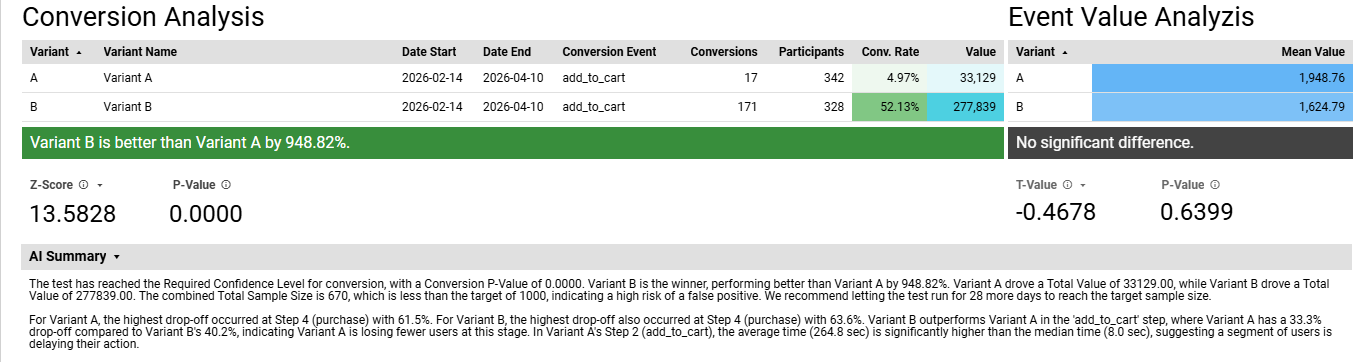
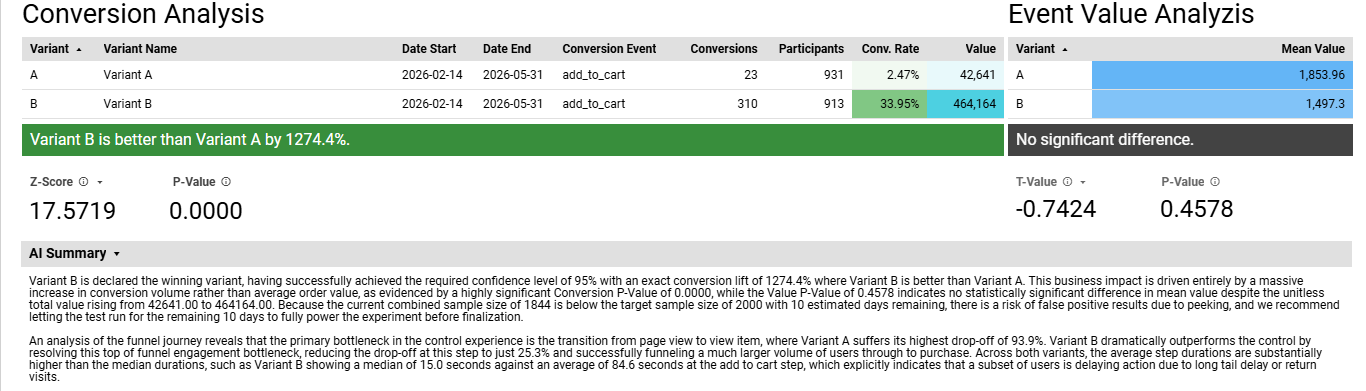
Upgrade to version v2.22
Upgrade related to Gemini 3.5

diff --git a/03-Releases/v2.22/README.md b/03-Releases/v2.22/README.md
@@ -1,0 +1,184 @@
+# v2.22 - Gemini 3.5 Flash
+
+* This upgrades the version from **v.2.21** to **v2.22**.
+* In this version [Gemini 2.5 Flash](https://ai.google.dev/gemini-api/docs/models/gemini-2.5-flash?hl=en) is replaced by [Gemini 3.5 Flash](https://ai.google.dev/gemini-api/docs/models/gemini-3.5-flash?hl=en).
+
+## 1. BigQuery
+
+Use the new sceduled queries. Changes to the queries are updated **fallback prompt** and **Generate AI narratives**.
+If you want to make the changes manually yourself, the following sql is shown in 1.2 and 1.3 is new.
+
+1. [**Google Analytics 4** scheduled query](../../01-Documentation/Google-Cloud/01-BigQuery/01-Scheduled-queries/bigquery_ab_analyzer_ga4.sql).
+	1. Replace **your_project** with the name of your project.
+	2. Replace **analytics_XXX** with your GA4 data set.
+2. [**GA4Dataform** scheduled query](../../01-Documentation/Google-Cloud/01-BigQuery/01-Scheduled-queries/bigquery_ab_analyzer_ga4dataform.sql).
+	1. Replace **your_project** with the name of your project.
+	2. Replace **analytics_XXX** with your GA4 data set.
+	3. Replace 'region-eu' with 'region-us' if your data is in US.
+3. [**Amplitude** scheduled query](../../01-Documentation/Google-Cloud/01-BigQuery/01-Scheduled-queries/bigquery_ab_analyzer_amplitude.sql).
+	1. In **declare events_table**, replace **your_project.your_dataset.deduplicated_EVENTS_1234** with your project, data set and deduplicated table function.
+	2. Replace **your_project** with the name of your project.
+	3. Replace 'region-eu' with 'region-us' if your data is in US.
+4. [**Mixpanel** scheduled query](../../01-Documentation/Google-Cloud/01-BigQuery/01-Scheduled-queries/bigquery_ab_analyzer_mixpanel.sql).
+	1. In **declare events_table**, replace **your-project.mixpanel** with your project and data set.
+	2. Replace 'region-eu' with 'region-us' if your data is in US.
+	3. In **(10) GENERATE AI NARRATIVES**, replace **your_project** with the name of your project.
+5. [**PostHog** scheduled query](../../01-Documentation/Google-Cloud/01-BigQuery/01-Scheduled-queries/bigquery_ab_analyzer_posthog.sql).
+	1. In **declare events_table**, replace **your-project.posthog** with your project and data set.
+	2. Replace 'region-eu' with 'region-us' if your data is in US.
+	3. In **(10) GENERATE AI NARRATIVES**, replace **your_project** with the name of your project.
+
+
+### 1.1 Setup Query for connecting to Gemini 3.5 Flash
+
+Run this once in your BigQuery editor (adjusting your project/dataset/location/connection names):
+
+```sql
+	create or replace model `your-dataset.bigquery_ab_analyzer.gemini_narrator` -- Replace "your-dataset" with correct dataset.
+	remote with connection `your-dataset.eu.gemini_connection` -- Replace "your-dataset" with correct dataset. Replace "eu" with the location you are using.
+	options (
+		endpoint = 'gemini-3.5-flash' 
+	);
+```
+
+### 1.2 AI Fallback Prompt
+
+Find **if ai_prompt is null or ai_prompt = '' then**, and replace that section with the sql below.
+
+```sql
+	if ai_prompt is null or ai_prompt = '' then
+      set ai_prompt = concat(
+        'You are a senior CRO and data analytics consultant summarizing A/B test results for an executive dashboard.\n',
+        'Write exactly two concise, highly structured paragraphs of professional prose separated by a single blank line. Do not use rule titles, bullet points, hyphens, or markdown headings.\n\n',
+        'Paragraph 1 — Executive Decision & Statistical Summary:\n',
+        '1. Lead immediately with a clear verdict: Declare the winning variant (or "Inconclusive/No Winner"), state whether it achieved the Required Confidence Level, and quote the exact conversion lift from "Conversion Details".\n',
+        '2. Synthesize business impact: If monetary or mean values are present, evaluate whether the lift is driven by higher conversion volume, higher average order value, or both. Treat total value as a unitless scale metric (do not add currency symbols). Reference Conversion P-Value or Value P-Value explicitly without scientific notation.\n',
+        '3. Decision & Horizon Check: Check sample size against {{TARGET_SAMPLE}} and "Estimated Days Remaining". If traffic is below target, warn of false-positive (peeking) risk and recommend letting the test run for the remaining days. If target is reached (0 days remaining), recommend closing the test. If underpowered (<1000 sample target), note the detection limitation.\n\n',
+        'Paragraph 2 — Funnel & User Behavior Dynamics:\n',
+        'If funnel journey data is provided:\n',
+        '1. Journey Bottlenecks: Identify the step with the highest drop-off and explain specifically where and how the winning variant outperforms the control (e.g., superior top-of-funnel engagement vs. checkout completion).\n',
+        '2. Behavioral Latency: Compare median vs. average step duration. If average time is substantially higher than median time, explicitly explain that a subset of users is delaying action (long-tail delay / return visits).\n',
+        'If no funnel data is present, omit this second paragraph entirely.'
+      );
+    end if;
+```
+
+### 1.3 Generate AI narratives
+
+Find **(10) GENERATE AI NARRATIVES**, and replace that section with the sql below.
+
+```sql
+	----------------------------------------------------------------------------
+    -- (10) GENERATE AI NARRATIVES
+    ----------------------------------------------------------------------------
+    if ai_summary_activated then
+      update `your_project.bigquery_ab_analyzer.experiments_report` dest
+        set ai_summary = ai.ml_generate_text_llm_result
+        from (
+          select
+            id,
+            ml_generate_text_llm_result
+          from ML.GENERATE_TEXT(
+            model `your_project.bigquery_ab_analyzer.gemini_narrator`,
+            (
+              select 
+                rep.id,
+                concat(
+                  replace(ai_prompt, '{{TARGET_SAMPLE}}', cast(coalesce(exp.ai_total_target_sample, 2000) as string)),
+                  '\n\nDATA:\n',
+                  'Experiment Name: ', coalesce(rep.experiment_name, 'N/A'), '. ',
+                  'Hypothesis: ', coalesce(rep.hypothesis, 'N/A'), '. ',
+                  '--- EXPERIMENT METADATA --- ',
+                  'Required Confidence Level: ', coalesce(cast(rep.confidence_level as string), 'N/A'), '%. ',
+                  'Is Date Comparison Analysis?: ', coalesce(cast(rep.date_comparison as string), 'N/A'), '. ',
+                  'Days Running: ', coalesce(cast(date_diff(rep.date_end, rep.date_start, day) + 1 as string), 'N/A'), ' days. ',
+                  'Target Sample Size: ', cast(coalesce(exp.ai_total_target_sample, 2000) as string), '. ',
+                  'Estimated Days Remaining to hit Target: ', 
+                    coalesce(cast(
+                      ceil(
+                        greatest(0, coalesce(exp.ai_total_target_sample, 2000) - (rep.test_a + rep.test_b)) 
+                        / 
+                        nullif((rep.test_a + rep.test_b) / (date_diff(rep.date_end, rep.date_start, day) + 1), 0)
+                      ) 
+                  as string), 'N/A'), ' days. ',
+                  
+                  '--- SAMPLE SIZE --- ',
+                  'Variant A Traffic: ', coalesce(cast(rep.test_a as string), '0'), ', ',
+                  'Variant B Traffic: ', coalesce(cast(rep.test_b as string), '0'), '. ',
+                  '--- CONVERSION RATE --- ',
+                  'Variant A Rate: ', coalesce(cast(rep.conv_rate_a as string), 'N/A'), ', ',
+                  'Variant B Rate: ', coalesce(cast(rep.conv_rate_b as string), 'N/A'), ', ',
+                  'Rate Significant?: ', coalesce(cast(rep.conv_significance as string), 'N/A'), ', ',
+                  'Conversion Z-Score: ', coalesce(format('%.4f', rep.conv_z_score), 'N/A'), ', ',
+                  'Conversion P-Value: ', coalesce(format('%.4f', rep.conv_p_value), 'N/A'), '. ',
+                  'Conversion Details: ', coalesce(rep.conv_details, 'N/A'), '. ',
+                  
+                  '--- MEAN VALUE & TOTAL VALUE --- ',
+                  'Variant A Total Value: ', coalesce(format('%.2f', rep.total_conversion_value_a), 'N/A'), ', ',
+                  'Variant B Total Value: ', coalesce(format('%.2f', rep.total_conversion_value_b), 'N/A'), ', ',
+                  'Variant A Mean Value: ', coalesce(format('%.2f', rep.mean_value_a), 'N/A'), ', ',
+                  'Variant B Mean Value: ', coalesce(format('%.2f', rep.mean_value_b), 'N/A'), ', ',
+                  'Value Significant?: ', coalesce(cast(rep.value_significance as string), 'N/A'), ', ',
+                  'Value T-Value: ', coalesce(format('%.4f', rep.t_value), 'N/A'), ', ',
+                  'Value P-Value: ', coalesce(format('%.4f', rep.value_p_value), 'N/A'), '. ',
+                  'Value Details: ', coalesce(rep.value_details, 'N/A'), '.\n\n',
+                  
+                  '\n\n--- FUNNEL JOURNEY DATA ---\n',
+                  coalesce(funnel.funnel_text, 'No funnel tracking activated for this test.')
+                ) as prompt
+              from `your_project.bigquery_ab_analyzer.experiments_report` rep
+              join (
+                select id, max(ai_total_target_sample) as ai_total_target_sample
+                from `your_project.bigquery_ab_analyzer.experiments`
+                where analyze_test = true group by id
+              ) exp on rep.id = exp.id 
+              left join (
+                select 
+                  id, 
+                  string_agg(
+                    format('Variant %s, Step %d (%s): %d users. Drop-off: %.1f%%. Median time: %.1f sec. Average time: %.1f sec.', 
+                      variant, step_number, step_name, participants, 
+                      coalesce(drop_off_rate_from_previous * 100, 0.0), 
+                      coalesce(median_time_from_previous_sec, 0.0), 
+                      coalesce(avg_time_from_previous_sec, 0.0)
+                    ),
+                    '\n' order by variant, step_number
+                  ) as funnel_text
+                from `your_project.bigquery_ab_analyzer.experiments_funnel_report`
+                group by id
+              ) funnel on rep.id = funnel.id
+            ),
+            struct(
+              0.2 as temperature, 
+              4096 as max_output_tokens,
+              TRUE as flatten_json_output
+            )
+          )
+        ) as ai
+        where dest.id = ai.id;
+```	
+	
+## 2. Google Sheet
+
+#### 2.1 AI Prompt
+With Gemini 3.5 Flash, the model has significantly stronger analytical synthesis and reasoning capabilities compared to earlier generations. Gemini 3.5 Flash can simply generate more actionable business insight.
+
+This update is optional, but recommended. In Settings Sheet, replace **AI Prompt** with the prompt below:
+
+>You are a senior CRO and data analytics consultant summarizing A/B test results for an executive dashboard.\
+>Write exactly two concise, highly structured paragraphs of professional prose separated by a single blank line. Do not use rule titles, bullet points, hyphens, or markdown headings.
+>
+>Paragraph 1 - Executive Decision & Statistical Summary:\
+>1\. Lead immediately with a clear verdict: Declare the winning variant (or "Inconclusive/No Winner"), state whether it achieved the Required Confidence Level, and quote the exact conversion lift from "Conversion Details".\
+>2\. Synthesize business impact: If monetary or mean values are present, evaluate whether the lift is driven by higher conversion volume, higher average order value, or both. Treat total value as a unitless scale metric (do not add currency symbols). Reference Conversion P-Value or Value P-Value explicitly without scientific notation.\
+>3\. Decision & Horizon Check: Check sample size against {{TARGET_SAMPLE}} and "Estimated Days Remaining". If traffic is below target, warn of false-positive (peeking) risk and recommend letting the test run for the remaining days. If target is reached (0 days remaining), recommend closing the test. If underpowered (<1000 sample target), note the detection limitation.
+>
+>Paragraph 2 - Funnel & User Behavior Dynamics:\
+>If funnel journey data is provided:\
+>1\. Journey Bottlenecks: Identify the step with the highest drop-off and explain specifically where and how the winning variant outperforms the control (e.g., superior top-of-funnel engagement vs. checkout completion).\
+>2\. Behavioral Latency: Compare median vs. average step duration. If average time is substantially higher than median time, explicitly explain that a subset of users is delaying action (long-tail delay / return visits).\
+>If no funnel data is present, omit this second paragraph entirely.
+
+#### 2.2 Version
+
+* When you have made all the updates, change **Version** in the **About** section to **v2.23**.

diff --git a/01-Documentation/Google-Cloud/03-AI-Summary/README.md b/01-Documentation/Google-Cloud/03-AI-Summary/README.md
@@ -35,27 +35,27 @@ Right now, the connection exists, but it doesn't have the security clearance to 
 
 ## Step 4: Setup Query for connecting to Gemini
 
-We are going to use [**Gemini model 2.5 Flash**](https://docs.cloud.google.com/vertex-ai/generative-ai/docs/models/gemini/2-5-flash).
+We are going to use [**Gemini model 3.5 Flash**](https://docs.cloud.google.com/gemini-enterprise-agent-platform/models/gemini/3-5-flash).
 This is a fast and cheap model. At the time of writing, this is the latest "stable" model.
 
 Run this once in your BigQuery editor (adjusting your project/dataset/location/connection names):
 
 ```sql
-create or replace model `your-dataset.bigquery_ab_analyzer.gemini_narrator` -- Replace "your-dataset" with correct dataset.
-  remote with connection `your-dataset.eu.gemini_connection` -- Replace "your-dataset" with correct dataset. Replace "eu" with the location you are using.
-  options (
-    endpoint = 'gemini-2.5-flash' 
-  );
+	create or replace model `your-dataset.bigquery_ab_analyzer.gemini_narrator` -- Replace "your-dataset" with correct dataset.
+	remote with connection `your-dataset.eu.gemini_connection` -- Replace "your-dataset" with correct dataset. Replace "eu" with the location you are using.
+	options (
+		endpoint = 'gemini-3.5-flash' 
+	);
 ```
 
-[**Gemini model 2.5 Flash Lite**](https://docs.cloud.google.com/vertex-ai/generative-ai/docs/models/gemini/2-5-flash-lite) is an even faster and cheaper model, but in my testing it sometimes forgot some of the instructions.
+[**Gemini model 2.5 Flash Lite**](https://docs.cloud.google.com/vertex-ai/generative-ai/docs/models/gemini/3-5-flash-lite) is an even faster and cheaper model, but in my testing it sometimes forgot some of the instructions.
 If you want to test out **Flash Lite**, run this in the BigQuery editor:
 
 ```sql
 create or replace model `your-dataset.bigquery_ab_analyzer.gemini_narrator` -- Replace "your-dataset" with correct dataset.
   remote with connection `your-dataset.eu.gemini_connection` -- Replace "your-dataset" with correct dataset. Replace "eu" with the location you are using.
   options (
-    endpoint = 'gemini-2.5-flash-lite' 
+    endpoint = 'gemini-3.5-flash-lite' 
   );
 ```
 

diff --git a/README.md b/README.md
@@ -30,7 +30,7 @@ The solution is built around **Google Sheet**, **BigQuery**, **Vertex AI** and *
 3. [Data Studio / presenting results](01-Documentation/Data-Studio)
 
 ## 3. Upgrading
-* [2.2 is latest version](../../releases/tag/v2.2).
+* [v2.22 is latest version](../../releases/tag/v2.22).
 
 ## 4. The "Backbone": Configuration-Driven Architecture
 
